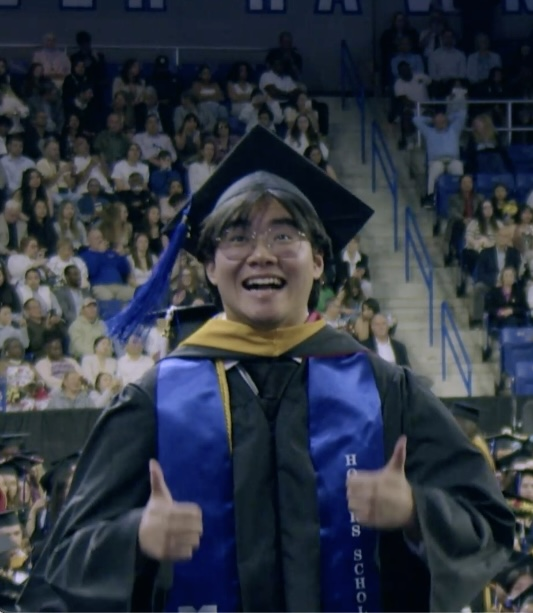
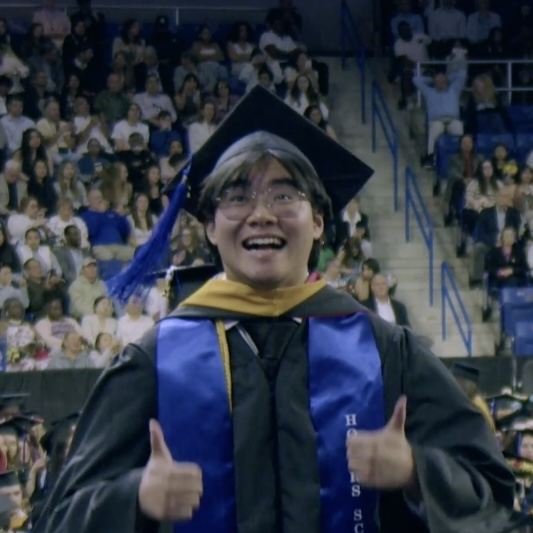
images and tweaks

diff --git a/index.html b/index.html
@@ -6,7 +6,7 @@
 
     <meta
         name="description"
-        content="Tam Nguyen - Computer Science graduate student specializing in robotics, computer vision, ROS2, augmented reality, and machine learning."
+        content="Tam Nguyen - Computer Science graduate student specializing in robotics, computer vision, ROS2, augmented reality, and reinforcement learning."
     >
 
     <title>Tam Nguyen | Robotics & Computer Science</title>
@@ -42,7 +42,7 @@
             <div class="hero-content">
 
                 <p class="eyebrow">
-                    ROBOTICS · COMPUTER VISION · MACHINE LEARNING
+                    ROBOTICS · COMPUTER VISION · REINFORCEMENT LEARNING
                 </p>
 
                 <h1>
@@ -94,12 +94,6 @@
                     </h3>
                 </div>
 
-                <img
-                    src="images/grad.png"
-                    alt="Tam Nguyen"
-                    class="profile-image"
-                >
-
                 <div class="about-text">
 
                     <p>
@@ -112,7 +106,7 @@
                         My work has involved developing interfaces for
                         visualizing robot planning and movement, working
                         with ROS2 and robot platforms, computer vision,
-                        augmented reality, and machine learning.
+                        and augmented reality.
                     </p>
 
                     <p>
@@ -120,6 +114,14 @@
                         robotics, and human-computer interaction.
                     </p>
 
+                </div>
+
+                <div>
+                    <img
+                        src="images/grad.png"
+                        alt="Tam Nguyen"
+                        class="profile-image"
+                    >
                 </div>
 
             </div>

diff --git a/style.css b/style.css
@@ -305,8 +305,10 @@ nav a:hover {
 }
 
 .project-image {
-    width: 50%;
+    width: 80%;
     /* height: 500px; */
+
+    align-self: center;
 
     object-fit: cover;
 
